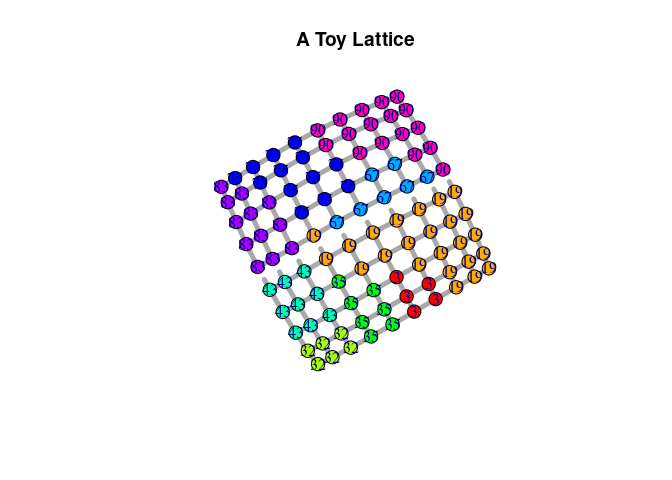
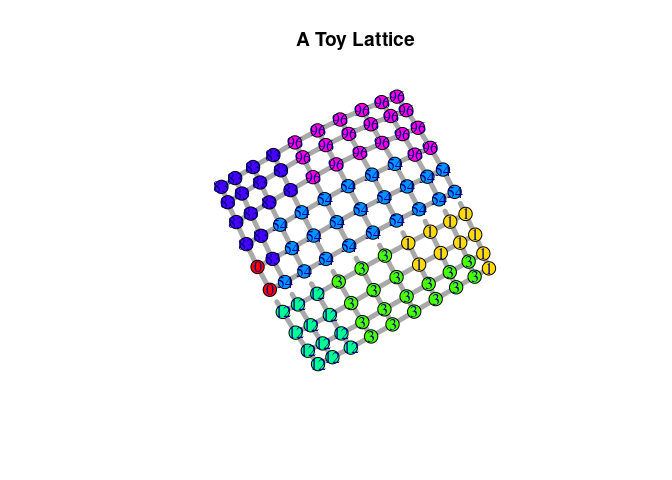
readme updates

Changed region(s): [[0.3125, 0.1875, 0.75, 0.7812]]

diff --git a/README.md b/README.md
@@ -1,7 +1,11 @@
-When using the pspm package, please cite: Müller-Crepon, Carl, Guy
-Schvitz, Lars-Erik Cederman (2023). Shaping States into Nations: The
-Effects of Ethnic Geography on State Borders. *American Journal of
-Political Science*, conditionally accepted for publication.
+# pspm: Probabilistic Spatial Partition Model
+
+When using the pspm package, please cite:
+
+Müller-Crepon, Carl, Guy Schvitz, Lars-Erik Cederman (2023). Shaping
+States into Nations: The Effects of Ethnic Geography on State Borders.
+*American Journal of Political Science*, conditionally accepted for
+publication.
 
 ## Installation
 
@@ -38,13 +42,15 @@ R-package.
 
 ## Handling a toy lattice
 
-    # Make mock PSPM Object with a d partitioning
-    sl <- generate_grid_data(N_sqrd = 10,
-                            beta0 = -2,
-                            beta = 2,
-                            dep_structure = "von_neumann",
-                            burnin = 10)
-    sl$plot_partitioning(edge_predictor = 1, edge.width = 5, vertex.size = 10,
+    # Make mock PSPM Object with a sampled partitioning
+    sl <- generate_grid_data(N_sqrd = 10, ## 10 x 10 lattice
+                            beta0 = -2, ## Negative constant = baseline attraction between nodes
+                            beta = c(2,1), ## Include two repulsive edge-level predictors
+                            dep_structure = "von_neumann", ## Each node connects to 4 neighbors
+                            burnin = 10 ## Sample with a 10 burn-in periods
+                            )
+    sl$plot_partitioning(edge_predictor = 1, 
+                         edge.width = 5, vertex.size = 10,
                          main = "A Toy Lattice")
 
 ![](README_files/figure-markdown_strict/unnamed-chunk-3-1.png)
@@ -53,7 +59,7 @@ R-package.
     graph <- PSPM2igraph(sl)
     edge_attr_names(graph)
 
-    ## [1] "x1"
+    ## [1] "x1" "x2"
 
     vertex_attr_names(graph)
 
@@ -61,20 +67,24 @@ R-package.
 
     # Transform igraph back to PSPM
     sl.from.g <- igraph2PSPM(g = graph, outcome_name = "Y",
-                             edge_pred_names = "x1")
+                             edge_pred_names = c("x1", "x2"))
 
 ## Fitting a PSPM Model
 
     ## The easy way
 
     ### Estimate
-    m.simple <- fit_pspm_model(formula = Y ~ x1, 
+    m.simple <- fit_pspm_model(formula = Y ~ x1 + x2, 
                                g_ls = list(graph),
                                return_pspm = TRUE)
 
     ### Bootstrap CIs
-    bs.simple <- bootstrap_pspm(m.simple, n_boot_iter = 10, burnin = 10, 
-                                cl = 10L, return_sims = TRUE, ci_level = .95)
+    bs.simple <- bootstrap_pspm(m.simple, 
+                                n_boot_iter = 10, ## Should be > 100
+                                burnin = 10, ## Could be higher, depending on complexite of graph and model
+                                cl = 10L, ## Number of CPUs for parallelization
+                                return_sims = TRUE, ## Return full distribution of estimates
+                                ci_level = .95)
 
     ## [1] "Load Learn Object on cluster"
     ## [1] "Run Bootstrap"
@@ -84,25 +94,26 @@ R-package.
 
     ## --------------------------------------------
     ## Maximum Likelihood estimation
-    ## BFGS maximization, 21 iterations
+    ## BFGS maximization, 31 iterations
     ## Return code 0: successful convergence 
-    ## Log-Likelihood: -26.18528 
-    ## 2  free parameters
+    ## Log-Likelihood: -13.44675 
+    ## 3  free parameters
     ## Estimates:
     ##          Estimate Std. error t value  Pr(> t)    
-    ## Constant  -2.1262     0.4044  -5.258 1.46e-07 ***
-    ## x1         1.0165     1.1015   0.923    0.356    
+    ## Constant  -2.5097     0.5919  -4.240 2.23e-05 ***
+    ## x1         1.9450     1.8374   1.059    0.290    
+    ## x2         0.4492     0.9306   0.483    0.629    
     ## ---
     ## Signif. codes:  0 '***' 0.001 '**' 0.01 '*' 0.05 '.' 0.1 ' ' 1
     ## --------------------------------------------
 
     print(bs.simple$ci_mat)
 
-    ##            Constant         x1
-    ## LB_Basic -2.4998667 0.05452731
-    ## UB_Basic -0.6604442 1.89724697
-    ## LB_Perc  -3.5920536 0.13574815
-    ## UB_Perc  -1.7526311 1.97846781
+    ##            Constant        x1         x2
+    ## LB_Basic -3.3369735 1.6394587 -0.6487487
+    ## UB_Basic -0.8817648 2.9760757  2.3140127
+    ## LB_Perc  -4.1375785 0.9139855 -1.4156026
+    ## UB_Perc  -1.6823697 2.2506025  1.5471588
 
     plot(density(bs.simple$beta_boot[,"x1"]),
          main = "Distribution of bootstrapped estimates of x1")
@@ -115,7 +126,7 @@ R-package.
     learn_obj <- PSPMLearn$new(list(sl.from.g))
 
     ### Fit
-    m.compl <- learn_obj$fit_composite_log_likelihood(beta_init = c(0,0))
+    m.compl <- learn_obj$fit_composite_log_likelihood(beta_init = c(0,0,0))
 
     ### Bootstrap
     bs.compl <- learn_obj$par_bootstrap_composite_log_likelihood(n_boot_iter = 10, burnin = 10, 
@@ -129,25 +140,26 @@ R-package.
 
     ## --------------------------------------------
     ## Maximum Likelihood estimation
-    ## BFGS maximization, 21 iterations
+    ## BFGS maximization, 31 iterations
     ## Return code 0: successful convergence 
-    ## Log-Likelihood: -26.18528 
-    ## 2  free parameters
+    ## Log-Likelihood: -13.44675 
+    ## 3  free parameters
     ## Estimates:
     ##      Estimate Std. error t value  Pr(> t)    
-    ## [1,]  -2.1262     0.4044  -5.258 1.46e-07 ***
-    ## [2,]   1.0165     1.1015   0.923    0.356    
+    ## [1,]  -2.5097     0.5919  -4.240 2.23e-05 ***
+    ## [2,]   1.9450     1.8374   1.059    0.290    
+    ## [3,]   0.4492     0.9306   0.483    0.629    
     ## ---
     ## Signif. codes:  0 '***' 0.001 '**' 0.01 '*' 0.05 '.' 0.1 ' ' 1
     ## --------------------------------------------
 
     print(bs.compl)
 
-    ##            Constant         x1
-    ## LB_Basic -2.4998667 0.05452731
-    ## UB_Basic -0.6604442 1.89724697
-    ## LB_Perc  -3.5920536 0.13574815
-    ## UB_Perc  -1.7526311 1.97846781
+    ##            Constant        x1         x2
+    ## LB_Basic -3.3369735 1.6394587 -0.6487487
+    ## UB_Basic -0.8817648 2.9760757  2.3140127
+    ## LB_Perc  -4.1375785 0.9139855 -1.4156026
+    ## UB_Perc  -1.6823697 2.2506025  1.5471588
 
 ## Producing nice tables
 
@@ -160,14 +172,16 @@ R-package.
     ## ==============================
     ##                 Model 1       
     ## ------------------------------
-    ## Constant         -2.13 *      
-    ##                 [-3.59; -1.75]
-    ## x1                1.02 *      
-    ##                 [ 0.14;  1.98]
+    ## Constant         -2.51 *      
+    ##                 [-4.14; -1.68]
+    ## x1                1.95 *      
+    ##                 [ 0.91;  2.25]
+    ## x2                0.45        
+    ##                 [-1.42;  1.55]
     ## ------------------------------
     ## Edges           180           
     ## Vertices        100           
-    ## Log-Likelihood  -26.19        
+    ## Log-Likelihood  -13.45        
     ## Num. obs.       100           
     ## ==============================
     ## * 0 outside the confidence interval.
